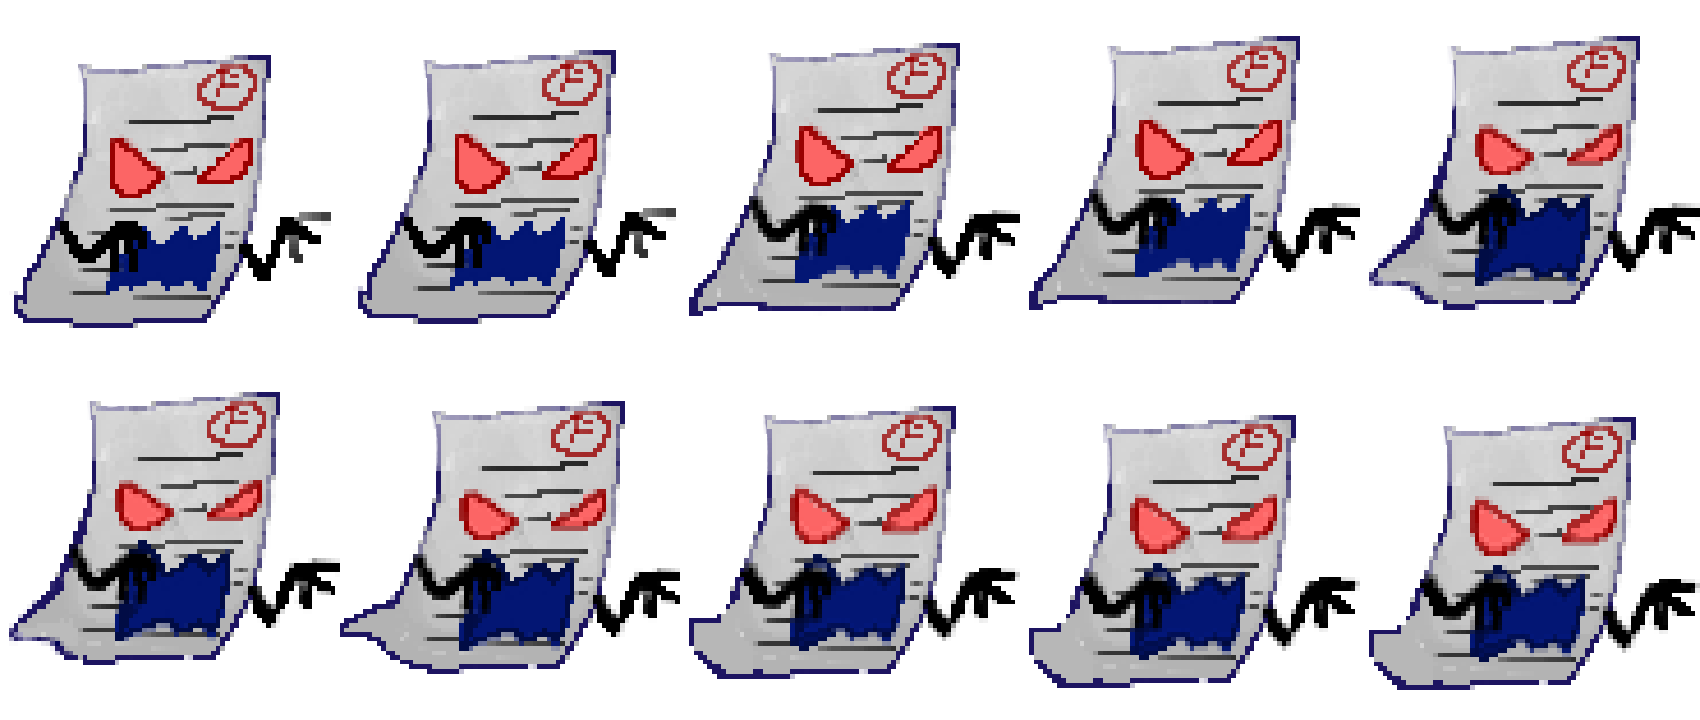
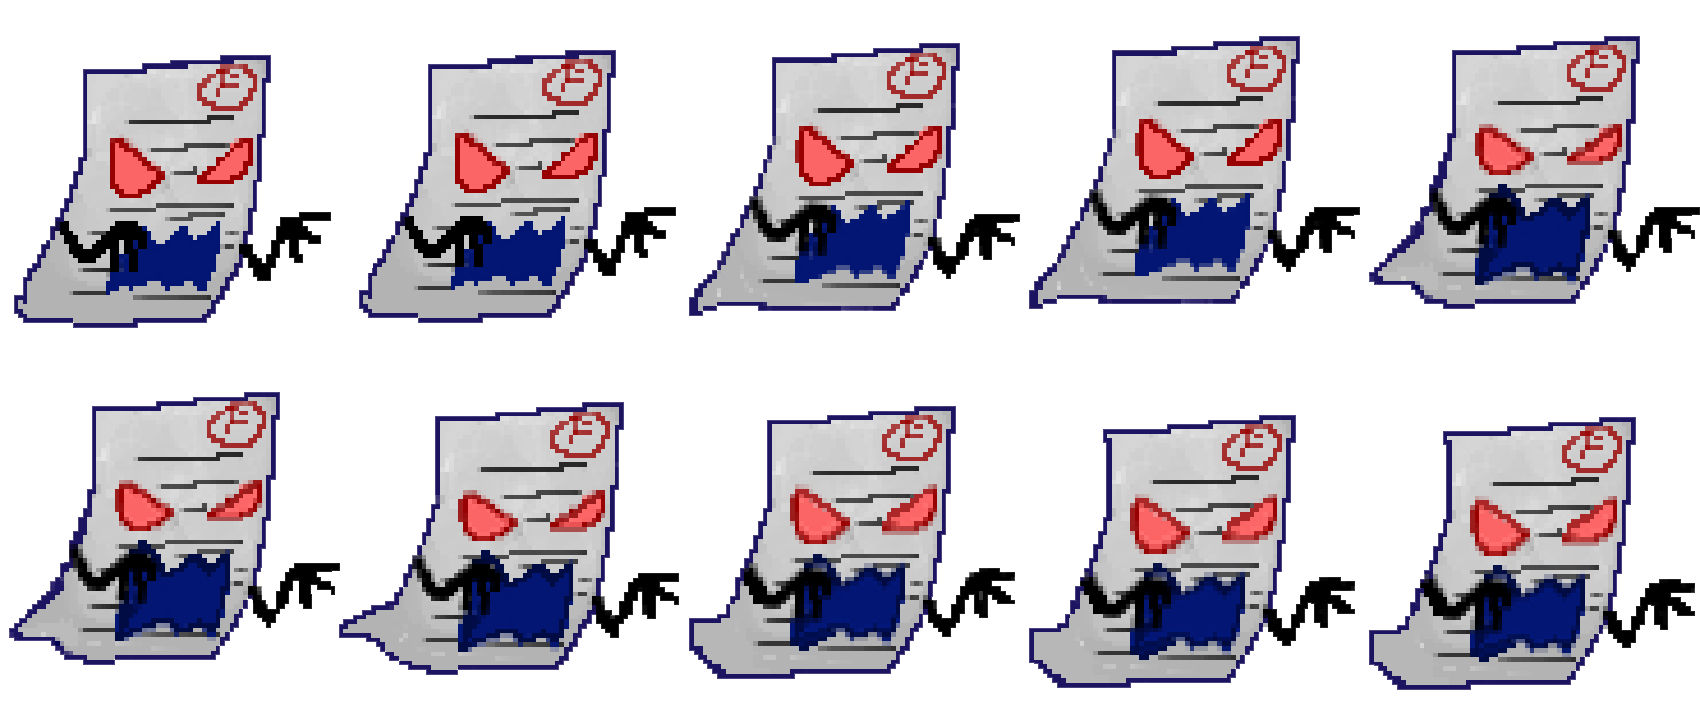
Commit Successfull

diff --git a/app/src/main/java/com/example/kur0/petersnightmares/RunIfUnreal.java b/app/src/main/java/com/example/kur0/petersnightmares/RunIfUnreal.java
@@ -147,9 +147,9 @@ public class RunIfUnreal extends EscenaBase
             }
         };
         // Arreglo de tiempos para los frames
-        long tiempos[] = new long[16];
+        long tiempos[] = new long[8];
         for(int i=0; i<tiempos.length; i++) {
-            tiempos[i] = 32;
+            tiempos[i] = 48;
         }
         peter.animate(tiempos,0,tiempos.length-1,true);
         attachChild(peter);
@@ -194,20 +194,20 @@ public class RunIfUnreal extends EscenaBase
             JumpModifier salto = new JumpModifier(1,xa,xn,ya,yn,-300);
 
             //Frame para salto
-            long tiempos[] = new long[16];
+            long tiempos[] = new long[8];
             for(int i=0; i<tiempos.length; i++) {
                 tiempos[i] = 0;
             }
-            peter.animate(tiempos[11],1);
+            peter.animate(tiempos[5],1);
             ParallelEntityModifier paralelo = new ParallelEntityModifier(salto) {
                 @Override
 
                 protected void onModifierFinished(IEntity pItem) {
 
 
-                    long tiempos[] = new long[16];
+                    long tiempos[] = new long[8];
                     for(int i=0; i<tiempos.length; i++) {
-                        tiempos[i] = 32;
+                        tiempos[i] = 48;
 
                     }
                     peter.animate(tiempos,0,tiempos.length-1,true);

diff --git a/app/src/main/java/com/example/kur0/petersnightmares/AdministradorRecursos.java b/app/src/main/java/com/example/kur0/petersnightmares/AdministradorRecursos.java
@@ -249,8 +249,8 @@ public class AdministradorRecursos
         }
         texturaEnemigoAnimado.load();
         // Carga las imagenes para Peter corriendo Animado
-        texturaPeterRunningAnimado = new BuildableBitmapTextureAtlas(actividadJuego.getTextureManager(),960,360);
-        regionPeterRunningAnimado = BitmapTextureAtlasTextureRegionFactory.createTiledFromAsset(texturaPeterRunningAnimado, actividadJuego, "RunIfUnreal/PeterRunning.png", 8, 2);
+        texturaPeterRunningAnimado = new BuildableBitmapTextureAtlas(actividadJuego.getTextureManager(),480,360);
+        regionPeterRunningAnimado = BitmapTextureAtlasTextureRegionFactory.createTiledFromAsset(texturaPeterRunningAnimado, actividadJuego, "RunIfUnreal/PeterRunning.png", 4, 2);
         try {
             texturaPeterRunningAnimado.build(new BlackPawnTextureAtlasBuilder<IBitmapTextureAtlasSource, BitmapTextureAtlas>(0,0,0));
         } catch (ITextureAtlasBuilder.TextureAtlasBuilderException e) {
